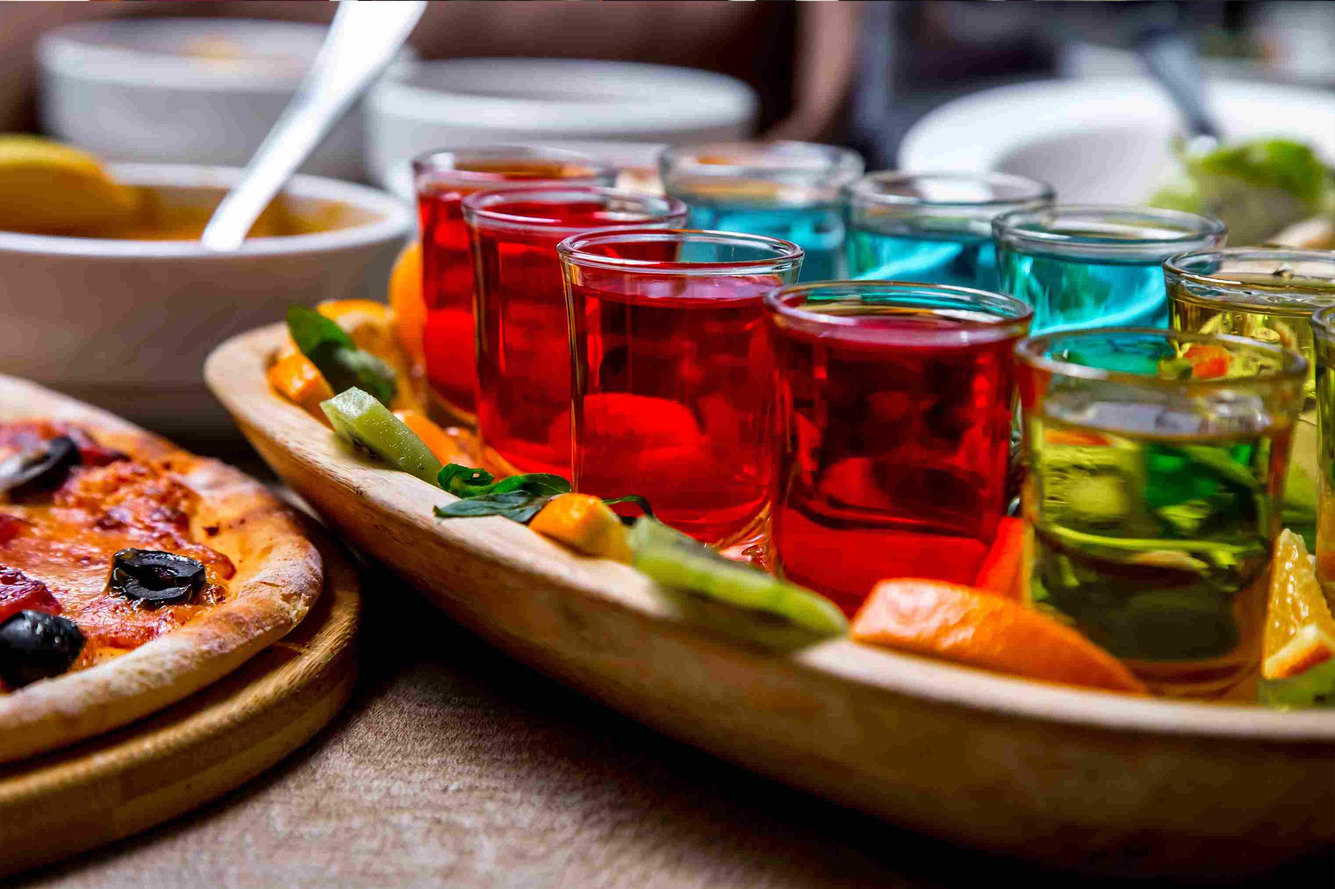
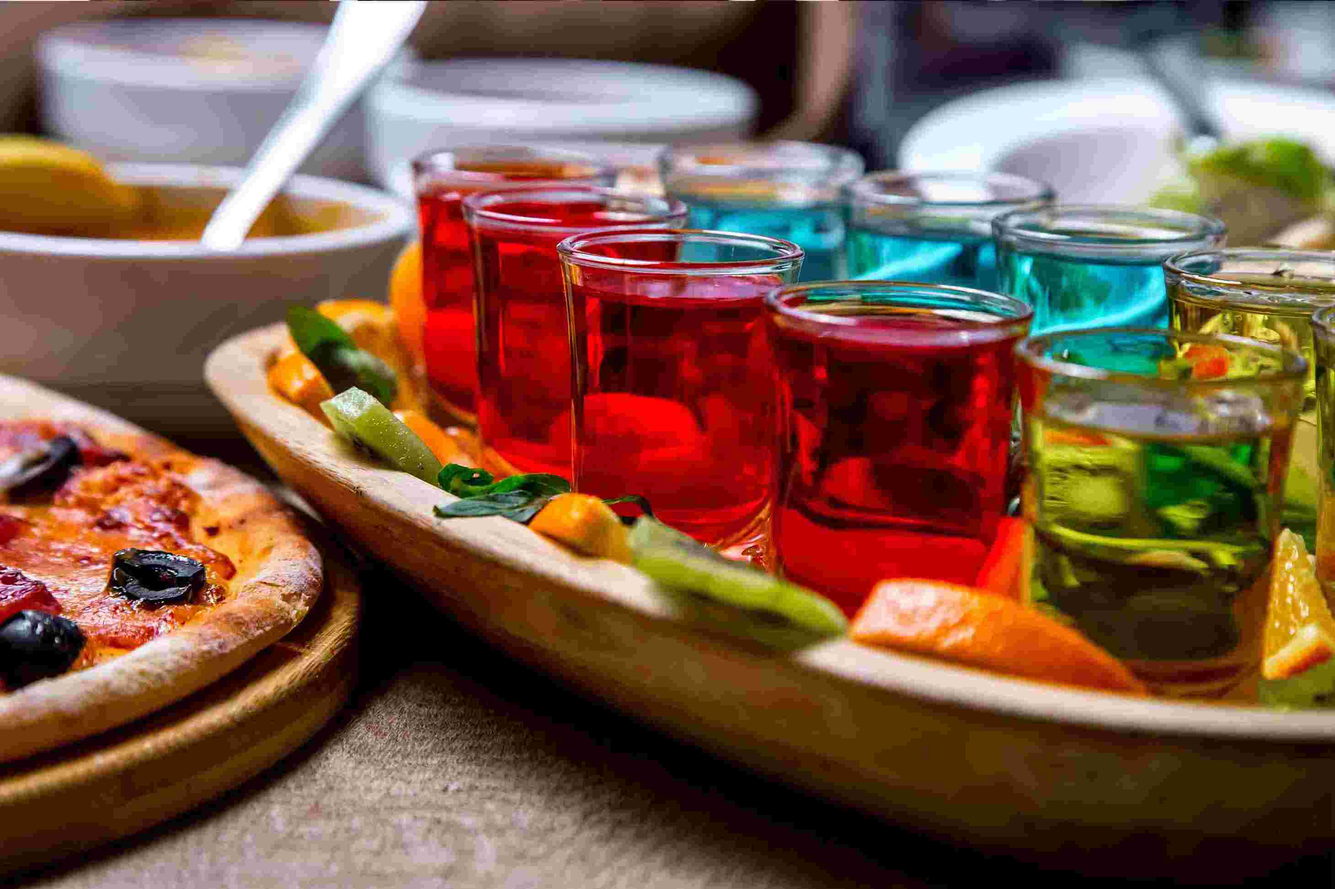
full

diff --git a/index.html b/index.html
@@ -329,7 +329,7 @@ padding-left: 1px;}
                     <!-- Slide 1 -->
                     <li data-transition="random">
                         <!-- Main Image -->
-                        <img src="images/home2/021 - Copy (2).jpg" alt="" data-bgposition="center center" data-no-retina>
+                        <img src="images/home2/21.webp" alt="" data-bgposition="center center" data-no-retina>
                         <div class="overlay"></div>
 
                         <!-- Layers -->
@@ -414,7 +414,7 @@ padding-left: 1px;}
                     <!-- Slide 3 -->
                     <li data-transition="random">
                         <!-- Main Image -->
-                        <img src="images/home2/11a.png" alt="" data-bgposition="center center" data-no-retina>
+                        <img src="images/home2/11a.webp" alt="" data-bgposition="center center" data-no-retina>
                         <div class="overlay"></div>
 
                         <!-- Layers -->
@@ -674,7 +674,7 @@ padding-left: 1px;}
             <div class="section-about-left">
                 <div class="videobox">
                     <a class="fancybox" data-type="iframe" href="https://www.youtube.com/embed/Bet1_t_jzfk">
-                        <img src="images/home2/9.png" alt="images">
+                        <img src="images/home2/9.webp" alt="images">
                     </a>
 
                 </div>
@@ -1147,78 +1147,7 @@ padding-left: 1px;}
     </div><!-- course-grid -->
 
 
-    <section class="latest-blog latest-blog-type2 latest-blog-style2">
-        <div class="container">
-            <div class="title-section">
-                <div class="flat-title small heading-type7">
-                    Latest Events
-                </div>
-            </div>
-            <div class="row">
-                <div class="col-lg-4 col-md-4">
-                    <article class="post post-style2 box-shadow-type1">
-                        <div class="featured-post">
-                            <img src="images/blog/Farewell/f7.JPG" alt="Bidding Farewell ">
-                        </div>
-                        <div class="post-content">
-                            <div class="category">
-                                Farewell
-                            </div>
-                            <div class="post-title">
-                                <h5>
-                                    <a href="farewellGalley.html">Bidding Farewell to the final year students on 26.4.2023</a>
-                                </h5>
-                            </div>
-                            <div class="post-link">
-                                <a href="farewellGalley.html">View Now</a>
-                            </div>
-                        </div>
-                    </article>
-                </div>
-                <div class="col-lg-4 col-md-4">
-                    <article class="post post-style2 box-shadow-type1">
-                        <div class="featured-post">
-                            <img src="images/blog/cultural.jpg" alt="Cultural">
-                        </div>
-                        <div class="post-content">
-                            <div class="category">
-                                Cultural
-                            </div>
-                            <div class="post-title">
-                                <h5>
-                                    <a href="culturalGallery.html">Cultural show organised by the students 24.3.2023</a>
-                                </h5>
-                            </div>
-                            <div class="post-link">
-                                <a href="culturalGallery.html">View Now</a>
-                            </div>
-                        </div>
-                    </article>
-                </div>
-                <div class="col-lg-4 col-md-4">
-                    <article class="post post-style2 box-shadow-type1">
-                        <div class="featured-post">
-                            <img style="height: 248px;width: 416px;" src="images/blog/onam.JPG" alt="Onam celebration">
-                        </div>
-                        <div class="post-content">
-                            <div class="category">
-                                Onam
-                            </div>
-                            <div class="post-title">
-                                <h5>
-                                    <a href="onamGallery.html">Onam celebration on <br> 9.7.2022</a>
-                                </h5>
-                            </div>
-                            <div class="post-link">
-                                <a href="onamGallery.html">View Now</a>
-                            </div>
-                        </div>
-                    </article>
-                </div>
-
-            </div>
-        </div>
-    </section><!-- latest-blog -->
+   
    
     <div class="title-section">
         <div class="flat-title small heading-type7 text-left" >
@@ -1432,7 +1361,7 @@ padding-left: 1px;}
                         <div id="copyright">
                           
                             <span class="text-year">
-                                Copyright © Jenneys 2023
+                                Copyright © Jenneys 2025
                             </span>
                             
                             <span class="license">

diff --git a/footer.html b/footer.html
@@ -84,7 +84,7 @@
                     <div id="copyright">
                       
                         <span class="text-year">
-                            Copyright © Jenneys 2023
+                            Copyright © Jenneys 2025
                         </span>
                         
                         <span class="license">
